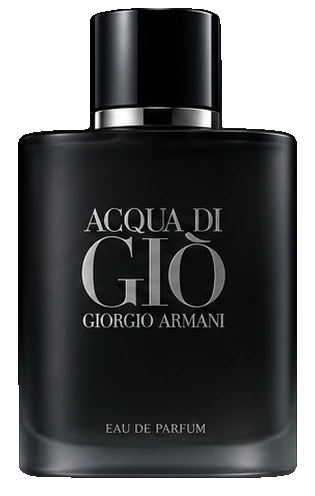
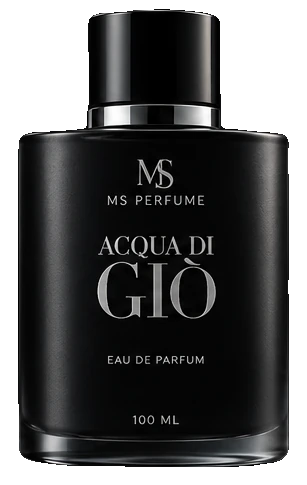
Design refresh, new bottle photos, second phone number
- New MS PERFUME-branded bottle cut-outs for the six perfume cards
- Refined perfume cards, categories and centered desktop footer
- Add second phone number (+968 76434164)
- Remove WhatsApp from the site
- Map falls back to a location card when frames are blocked

Claude-Session: https://claude.ai/code/session_01Xn117EQFLoVdWbu4KNpToc

diff --git a/app/page.tsx b/app/page.tsx
@@ -16,7 +16,7 @@ const grid = "mt-10 grid grid-cols-2 gap-3 sm:mt-12 sm:gap-6 sm:[grid-template-c
 const STATS: { k: string; v: string; icon: IconName }[] = [
   { k: "Oman", v: "Home of the brand", icon: "pin" },
   { k: "Oud & Amber", v: "Signature notes", icon: "bottle" },
-  { k: "WhatsApp", v: "Ask us anything", icon: "chat" },
+  { k: "Call us", v: "We are here to help", icon: "phone" },
 ];
 
 const iconBtn = "grid h-11 w-11 place-items-center rounded-full border border-white/10 bg-white/[.04] transition hover:border-orange hover:text-orange-light";
@@ -65,7 +65,6 @@ export default function Home() {
 
           <div className="absolute inset-x-0 bottom-6 mx-auto flex max-w-[1240px] items-center justify-between px-5">
             <div className="flex gap-3">
-              <a href={COMPANY.whatsapp} target="_blank" rel="noopener noreferrer" aria-label="WhatsApp" className={iconBtn}><Icon name="whatsapp" className="h-5 w-5" /></a>
               <a href={COMPANY.phoneHref} aria-label="Call" className={iconBtn}><Icon name="phone" className="h-5 w-5" /></a>
               <a href={`mailto:${COMPANY.email}`} aria-label="Email" className={iconBtn}><Icon name="mail" className="h-5 w-5" /></a>
             </div>
@@ -122,22 +121,21 @@ export default function Home() {
           <div className="mt-10 grid grid-cols-2 gap-3 sm:mt-12 sm:gap-7 sm:[grid-template-columns:repeat(auto-fit,minmax(min(100%,300px),1fr))]">
             {PERFUMES.map((p, i) => (
               <Reveal key={p.name} delay={(i % 3) * 120} className="card card-bare group !p-0">
-                {p.image ? (
-                  <div className="relative aspect-square w-full bg-[radial-gradient(closest-side_at_50%_58%,rgba(217,99,30,.30),transparent)]">
-                    <Image src={p.image} alt={`${p.brand} ${p.name} ${p.type}`} width={520} height={520} unoptimized className="absolute inset-x-[10%] bottom-[7%] top-[18%] h-[75%] w-[80%] object-contain object-bottom drop-shadow-[0_18px_22px_rgba(0,0,0,.65)] transition duration-700 group-hover:-translate-y-1.5 group-hover:scale-105" />
-                    <div className="absolute inset-x-[22%] bottom-[5%] h-3 rounded-[50%] bg-black/60 blur-md" />
-                    <span className="absolute left-2.5 top-2.5 rounded-full border border-white/10 bg-ink/75 px-2.5 py-1 text-[.52rem] uppercase tracking-[.16em] text-orange-light backdrop-blur sm:left-4 sm:top-4 sm:px-3 sm:text-[.62rem] sm:tracking-[.2em]">{p.brand}</span>
-                  </div>
-                ) : (
-                  <div className="relative grid aspect-square w-full place-items-center rounded-2xl bg-[radial-gradient(closest-side,rgba(217,99,30,.28),transparent)]">
-                    <Bottle tone={p.tone} label={p.label} className="h-[62%] w-auto drop-shadow-[0_10px_14px_rgba(0,0,0,.5)] transition duration-500 group-hover:-translate-y-2 group-hover:scale-110" />
-                    <span className="absolute left-2.5 top-2.5 rounded-full border border-white/10 bg-ink/75 px-2.5 py-1 text-[.52rem] uppercase tracking-[.16em] text-orange-light sm:left-4 sm:top-4 sm:px-3 sm:text-[.62rem] sm:tracking-[.2em]">{p.brand}</span>
-                  </div>
-                )}
-                <div className="px-3 pb-4 pt-2 sm:px-5 sm:pb-6 sm:pt-3">
-                  <h3 className="font-serif text-lg leading-tight sm:text-2xl">{p.name}</h3>
-                  <p className="mt-1 text-[.68rem] leading-snug tracking-wide text-orange-light/90 sm:mt-1.5 sm:text-[.8rem] sm:tracking-wider">{p.type}</p>
-                  <p className="mt-2 hidden text-[.82rem] leading-relaxed text-cream/60 sm:block">Ask us about sizes and availability.</p>
+                <div className="relative aspect-square w-full">
+                  <div aria-hidden className="absolute inset-x-[6%] bottom-[6%] top-[14%] bg-[radial-gradient(closest-side_at_50%_62%,rgba(217,99,30,.34),transparent)]" />
+                  {p.image ? (
+                    <Image src={p.image} alt={`${p.brand} ${p.name} ${p.type}`} width={520} height={520} unoptimized className="absolute inset-x-[7%] bottom-[9%] top-[10%] h-[81%] w-[86%] object-contain object-bottom drop-shadow-[0_18px_22px_rgba(0,0,0,.65)] transition duration-700 group-hover:-translate-y-2 group-hover:scale-[1.04]" />
+                  ) : (
+                    <Bottle tone={p.tone} label={p.label} className="absolute inset-x-[20%] bottom-[9%] top-[14%] h-[77%] w-[60%] drop-shadow-[0_10px_14px_rgba(0,0,0,.5)] transition duration-700 group-hover:-translate-y-2 group-hover:scale-105" />
+                  )}
+                  <div aria-hidden className="absolute inset-x-[18%] bottom-[5%] h-4 rounded-[50%] bg-black/70 blur-md" />
+                  <div aria-hidden className="absolute inset-x-[26%] bottom-[7%] h-px bg-gradient-to-r from-transparent via-orange-light/70 to-transparent" />
+                </div>
+                <div className="px-3 pb-3 pt-3 sm:px-5 sm:pb-6 sm:pt-5">
+                  <p className="text-[.64rem] uppercase tracking-[.26em] text-orange-light sm:text-[.7rem] sm:tracking-[.36em]">{p.brand}</p>
+                  <h3 className="mt-1.5 font-serif text-xl leading-tight sm:mt-2 sm:text-[1.75rem]">{p.name}</h3>
+                  <div aria-hidden className="mx-auto my-2.5 h-px w-8 bg-orange/50 sm:my-3.5 sm:w-12" />
+                  <p className="text-[.76rem] leading-snug tracking-wide text-cream/75 sm:text-[.84rem] sm:tracking-wider">{p.type}</p>
                 </div>
               </Reveal>
             ))}
@@ -147,7 +145,8 @@ export default function Home() {
         <Section id="categories" eyebrow="Categories" title={<>Find Your <span className="gold">Scent Family</span></>} lead="Every fragrance belongs to a family. Start with the mood you love, and we will help you from there.">
           <div className="mt-10 grid grid-cols-2 gap-3 sm:mt-12 sm:gap-7 lg:grid-cols-3">
             {CATEGORIES.map((c, i) => (
-              <Reveal key={c.name} delay={(i % 3) * 100} className="card !px-3 !py-7 sm:!px-8 sm:!py-14">
+              <Reveal key={c.name} delay={(i % 3) * 100} className="card group !px-3 !py-7 sm:!px-8 sm:!py-14">
+                <Icon name={c.icon as IconName} className="pointer-events-none absolute -bottom-6 -right-5 -z-10 hidden h-36 w-36 text-orange opacity-[.07] transition duration-500 group-hover:opacity-[.14] sm:block" />
                 <IconBadge name={c.icon as IconName} className="!mb-3 sm:!mb-5 sm:!h-20 sm:!w-20" big />
                 <h3 className="font-serif text-lg leading-tight sm:text-[1.9rem]">{c.name}</h3>
                 <p className="mt-1.5 text-[.72rem] leading-snug text-cream/60 sm:mt-2.5 sm:text-[.9rem] sm:leading-relaxed sm:text-cream/65">{c.text}</p>
@@ -157,12 +156,12 @@ export default function Home() {
         </Section>
 
         <Section id="why" alt eyebrow="Why Choose Us" title={<>The <span className="gold">MS</span> Difference</>} lead="A small house with a clear idea: fewer, better fragrances, and a real person to talk to.">
-          <div className="mt-10 grid grid-cols-2 gap-3 sm:mt-12 sm:gap-6 sm:[grid-template-columns:repeat(auto-fit,minmax(min(100%,240px),1fr))]">
+          <div className="mt-10 grid grid-cols-2 gap-3 sm:mt-14 sm:gap-6 lg:grid-cols-4">
             {WHY.map((w, i) => (
-              <Reveal key={w.name} delay={i * 100} className="card !p-4 sm:!p-6">
-                <IconBadge name={w.icon as IconName} />
-                <h3 className="font-serif text-lg leading-tight sm:text-2xl">{w.name}</h3>
-                <p className="mt-1 text-[.68rem] leading-snug tracking-wide text-cream/55 sm:mt-1.5 sm:text-[.78rem] sm:tracking-wider">{w.text}</p>
+              <Reveal key={w.name} delay={i * 100} className="card !px-4 !py-7 sm:!px-6 sm:!py-10">
+                <IconBadge name={w.icon as IconName} className="sm:!mb-5 sm:!h-16 sm:!w-16" />
+                <h3 className="font-serif text-xl leading-tight sm:text-[1.7rem]">{w.name}</h3>
+                <p className="mt-2 text-[.78rem] leading-snug text-cream/65 sm:mt-3 sm:text-[.92rem] sm:leading-relaxed">{w.text}</p>
               </Reveal>
             ))}
           </div>
@@ -198,7 +197,7 @@ export default function Home() {
               <p className="mt-6 text-sm text-cream/60">{COMPANY.address}<br />{COMPANY.addressLine}</p>
               <div className="mt-6 flex flex-wrap justify-center gap-3 lg:justify-start">
                 <a href={`https://www.google.com/maps/search/?api=1&query=${encodeURIComponent(COMPANY.mapQuery)}`} target="_blank" rel="noopener noreferrer" className="btn btn-fill">Get Directions <span aria-hidden>↗</span></a>
-                <a href={COMPANY.whatsappMsg} target="_blank" rel="noopener noreferrer" className="btn">WhatsApp Us</a>
+                <a href={COMPANY.phoneHref} className="btn">Call Us</a>
               </div>
             </Reveal>
           </div>
@@ -229,11 +228,18 @@ export default function Home() {
           </div>
         </section>
 
-        <Section id="contact" eyebrow="Contact Us" title={<>Let&apos;s <span className="gold">Talk Fragrance</span></>} lead="Questions about our fragrances, availability or gifting? Call, message us on WhatsApp or send an email. We are happy to help you choose.">
+        <Section id="contact" eyebrow="Contact Us" title={<>Let&apos;s <span className="gold">Talk Fragrance</span></>} lead="Questions about our fragrances, availability or gifting? Call or send us an email. We are happy to help you choose.">
           <div className="mt-12 grid grid-cols-[minmax(0,1fr)] gap-10 text-left md:grid-cols-[1fr_1.2fr]">
             <Reveal className="grid content-start gap-4">
+              <div className="panel flex items-center gap-4 p-5">
+                <span className="grid h-12 w-12 shrink-0 place-items-center rounded-full border border-orange/30 bg-orange/10 text-orange-light"><Icon name="phone" className="h-5 w-5" /></span>
+                <span className="min-w-0 text-[.88rem] sm:text-base">
+                  <b className="block text-[.7rem] font-normal uppercase tracking-[.25em] text-orange">Phone</b>
+                  <a href={COMPANY.phoneHref} className="block transition hover:text-orange-light">{COMPANY.phone}</a>
+                  <a href={COMPANY.phone2Href} className="block transition hover:text-orange-light">{COMPANY.phone2}</a>
+                </span>
+              </div>
               {[
-                { l: "Phone", v: COMPANY.phone, h: COMPANY.phoneHref, i: "phone" as IconName },
                 { l: "Email", v: COMPANY.email, h: `mailto:${COMPANY.email}`, i: "mail" as IconName },
               ].map((i) => (
                 <a key={i.l} href={i.h} className="panel flex items-center gap-4 p-5 transition hover:border-orange/60">
@@ -241,10 +247,6 @@ export default function Home() {
                   <span className="min-w-0 text-[.88rem] [overflow-wrap:anywhere] sm:text-base"><b className="block text-[.7rem] font-normal uppercase tracking-[.25em] text-orange">{i.l}</b>{i.v}</span>
                 </a>
               ))}
-              <a href={COMPANY.whatsappMsg} target="_blank" rel="noopener noreferrer" className="flex items-center gap-4 rounded-2xl border border-[#25d366]/70 bg-[#25d366]/10 p-5 transition hover:bg-[#25d366]/20">
-                <span className="grid h-12 w-12 shrink-0 place-items-center rounded-full bg-[#25d366]/20 text-[#4be08a]"><Icon name="whatsapp" className="h-6 w-6" /></span>
-                <span><b className="block text-[.7rem] font-normal uppercase tracking-[.25em] text-[#4be08a]">WhatsApp</b>Chat with us now</span>
-              </a>
               <div className="panel flex items-start gap-4 p-5">
                 <span className="grid h-12 w-12 shrink-0 place-items-center rounded-full border border-orange/30 bg-orange/10 text-orange-light"><Icon name="building" className="h-5 w-5" /></span>
                 <span className="min-w-0"><b className="block text-[.7rem] font-normal uppercase tracking-[.25em] text-orange">Head Quarter</b>
@@ -261,10 +263,10 @@ export default function Home() {
             <p className="eyebrow">MS PERFUME</p>
             <h2 className="title text-[clamp(2.4rem,6vw,4.4rem)]">Find Your <span className="gold">Signature Scent</span></h2>
             <div className="divider mx-auto" />
-            <p className="mx-auto max-w-[520px] text-cream/70">Tell us what you love and we will guide you. Call or message us on WhatsApp.</p>
+            <p className="mx-auto max-w-[520px] text-cream/70">Tell us what you love and we will guide you. Call us or send an email.</p>
             <div className="mt-8 flex flex-wrap items-center justify-center gap-4">
-              <a href={COMPANY.whatsappMsg} target="_blank" rel="noopener noreferrer" className="btn btn-fill px-8"><Icon name="whatsapp" className="h-5 w-5" />Chat on WhatsApp</a>
-              <a href={COMPANY.phoneHref} className="btn px-8"><Icon name="phone" className="h-5 w-5" />{COMPANY.phone}</a>
+              <a href={COMPANY.phoneHref} className="btn btn-fill px-8"><Icon name="phone" className="h-5 w-5" />Call {COMPANY.phone}</a>
+              <a href={`mailto:${COMPANY.email}`} className="btn px-8"><Icon name="mail" className="h-5 w-5" />Email Us</a>
             </div>
           </Reveal>
         </section>
@@ -274,25 +276,25 @@ export default function Home() {
         <div aria-hidden className="pointer-events-none absolute inset-0 bg-[radial-gradient(ellipse_at_50%_0%,rgba(217,99,30,.22),transparent_60%)]" />
         <div aria-hidden className="bg-lattice pointer-events-none absolute inset-0 [mask-image:linear-gradient(to_bottom,black,transparent_70%)]" />
         <div className="relative mx-auto max-w-[1240px]">
-          <div className="grid gap-10 text-center sm:grid-cols-2 sm:text-left lg:grid-cols-[1.4fr_1fr] lg:gap-20">
+          <div className="grid gap-10 text-center">
             <div>
-              <div className="flex items-center justify-center gap-3 font-serif text-2xl tracking-wide text-cream sm:justify-start">
+              <div className="flex items-center justify-center gap-3 font-serif text-2xl tracking-wide text-cream">
                 <Image src="/logo-sm.webp" alt="" width={79} height={64} unoptimized className="h-auto w-[64px] drop-shadow-[0_6px_18px_rgba(217,99,30,.45)] sm:w-[56px]" /><span>MS PERFUME<span className="text-orange">.</span></span>
               </div>
               <p className="mt-3 font-serif text-xl italic text-champagne/90">The art of Arabian scent.</p>
-              <div className="divider mx-auto mt-5 sm:mx-0" />
-              <p className="mx-auto mt-4 max-w-[340px] text-[.85rem] leading-relaxed text-cream/60 sm:mx-0 sm:max-w-none">Oud, amber, musk and rose, from {COMPANY.legalName}, Muscat, Oman.</p>
+              <div className="divider mx-auto mt-5" />
+              <p className="mx-auto mt-4 max-w-[420px] text-[.85rem] leading-relaxed text-cream/60">Oud, amber, musk and rose, from {COMPANY.legalName}, Muscat, Oman.</p>
             </div>
 
             <div className="sm:hidden">
               <ul className="grid grid-cols-2 gap-3 text-left">
                 {([
                   ["phone", "Call", COMPANY.phone, COMPANY.phoneHref],
-                  ["whatsapp", "WhatsApp", "Chat with us", COMPANY.whatsappMsg],
+                  ["phone", "Call", COMPANY.phone2, COMPANY.phone2Href],
                   ["mail", "Email", "Write to us", `mailto:${COMPANY.email}`],
                   ["pin", "Directions", "Ruwi / Muttrah", `https://www.google.com/maps/search/?api=1&query=${encodeURIComponent(COMPANY.mapQuery)}`],
                 ] as [IconName, string, string, string][]).map(([ic, l, v, h]) => (
-                  <li key={l}>
+                  <li key={h}>
                     <a href={h} {...(h.startsWith("http") ? { target: "_blank", rel: "noopener noreferrer" } : {})} className="block rounded-2xl border border-orange/25 bg-[linear-gradient(160deg,rgba(240,160,75,.14),rgba(0,0,0,.25))] p-4 shadow-[0_14px_30px_-12px_rgba(0,0,0,.8)] transition active:scale-[.98]">
                       <span className="mb-3 grid h-10 w-10 place-items-center rounded-full border border-orange/30 bg-orange/10 text-orange-light"><Icon name={ic} className="h-5 w-5" /></span>
                       <b className="block font-serif text-lg font-medium leading-tight">{l}</b>
@@ -301,18 +303,32 @@ export default function Home() {
                   </li>
                 ))}
               </ul>
-              <p className="mx-auto mt-4 max-w-[300px] text-[.78rem] leading-relaxed text-cream/55">{COMPANY.address}<br />{COMPANY.addressLine}</p>
+              <p className="mx-auto mt-3 max-w-[300px] text-[.78rem] leading-relaxed text-cream/55">{COMPANY.address}<br />{COMPANY.addressLine}</p>
               <p className="mt-2 text-[.74rem] text-cream/45 [overflow-wrap:anywhere]">{COMPANY.email}</p>
             </div>
 
-            <div className="hidden sm:block">
-              <p className="eyebrow">Contact</p>
-              <ul className="mt-4 space-y-3 text-sm text-cream/70">
-                <li className="flex items-center gap-3"><Icon name="phone" className="h-4 w-4 shrink-0 text-orange" /><a href={COMPANY.phoneHref} className="transition hover:text-orange-light">{COMPANY.phone}</a></li>
-                <li className="flex items-center gap-3"><Icon name="mail" className="h-4 w-4 shrink-0 text-orange" /><a href={`mailto:${COMPANY.email}`} className="[overflow-wrap:anywhere] transition hover:text-orange-light">{COMPANY.email}</a></li>
-                <li className="flex items-start gap-3"><Icon name="pin" className="mt-0.5 h-4 w-4 shrink-0 text-orange" /><span>{COMPANY.address}<br />{COMPANY.addressLine}</span></li>
-              </ul>
-            </div>
+            <ul className="mx-auto hidden w-full max-w-[1000px] gap-8 text-left sm:grid sm:grid-cols-3">
+              <li>
+                <div className="flex items-start gap-4">
+                  <span className="grid h-12 w-12 shrink-0 place-items-center rounded-full border border-orange/30 bg-orange/10 text-orange-light"><Icon name="phone" className="h-5 w-5" /></span>
+                  <span className="min-w-0 text-sm text-cream/75"><b className="mb-0.5 block text-[.66rem] font-normal uppercase tracking-[.26em] text-orange">Phone</b>
+                    <a href={COMPANY.phoneHref} className="block transition hover:text-orange-light">{COMPANY.phone}</a>
+                    <a href={COMPANY.phone2Href} className="block transition hover:text-orange-light">{COMPANY.phone2}</a>
+                  </span>
+                </div>
+              </li>
+              {([
+                ["mail", "Email", COMPANY.email, `mailto:${COMPANY.email}`],
+                ["pin", "Head Quarter", `${COMPANY.address}, ${COMPANY.addressLine}`, `https://www.google.com/maps/search/?api=1&query=${encodeURIComponent(COMPANY.mapQuery)}`],
+              ] as [IconName, string, string, string][]).map(([ic, l, v, h]) => (
+                <li key={l}>
+                  <a href={h} {...(h.startsWith("http") ? { target: "_blank", rel: "noopener noreferrer" } : {})} className="group flex items-start gap-4">
+                    <span className="grid h-12 w-12 shrink-0 place-items-center rounded-full border border-orange/30 bg-orange/10 text-orange-light transition group-hover:bg-orange group-hover:text-white"><Icon name={ic} className="h-5 w-5" /></span>
+                    <span className="min-w-0 text-sm text-cream/75 [overflow-wrap:anywhere]"><b className="mb-0.5 block text-[.66rem] font-normal uppercase tracking-[.26em] text-orange">{l}</b>{v}</span>
+                  </a>
+                </li>
+              ))}
+            </ul>
           </div>
 
           <div className="mt-12 flex flex-col items-center gap-3 border-t border-white/10 pt-6 text-center text-[.74rem] leading-relaxed text-cream/45">
@@ -322,8 +338,6 @@ export default function Home() {
         </div>
       </footer>
 
-      <a href={COMPANY.whatsapp} target="_blank" rel="noopener noreferrer" aria-label="WhatsApp" className="fixed bottom-[18px] right-[18px] z-[45] grid h-14 w-14 place-items-center rounded-full bg-[#25d366] shadow-[0_8px_24px_rgba(0,0,0,.5)] transition hover:scale-110"><Icon name="whatsapp" className="h-[30px] w-[30px] text-white" />
-      </a>
     </>
   );
 }

diff --git a/components/MapCard.tsx b/components/MapCard.tsx
@@ -1,29 +1,52 @@
 "use client";
-import { useState } from "react";
+import { useEffect, useState } from "react";
 import { COMPANY } from "@/lib/data";
 import Icon from "./Icon";
 
+type Mode = "card" | "map";
+
+/**
+ * The location card is the default and always renders. The live Google Map replaces it only when
+ * the page is a normal top-level tab, or when a visitor asks for it. If the browser or a viewer
+ * blocks the frame, it falls back to the card, so nobody sees a "content is blocked" box.
+ */
 export default function MapCard() {
-  const [live, setLive] = useState(false);
+  const [mode, setMode] = useState<Mode>("card");
   const q = encodeURIComponent(COMPANY.mapQuery);
+
+  useEffect(() => {
+    // A Content-Security-Policy that forbids frames reports a violation: drop back to the card.
+    // The listener goes on first, so it is already waiting when the frame is added.
+    const onViolation = (e: SecurityPolicyViolationEvent) => {
+      if (/frame|child/.test(e.violatedDirective)) setMode("card");
+    };
+    document.addEventListener("securitypolicyviolation", onViolation);
+    // Inside another page or a viewer (iframe): keep the card and offer the button.
+    if (window.self === window.top) setMode("map");
+    return () => document.removeEventListener("securitypolicyviolation", onViolation);
+  }, []);
+
   return (
-    <div className="flex min-h-[380px] flex-col overflow-hidden rounded-2xl border border-white/10">
-      {live ? (
-        <iframe
-          title={`${COMPANY.mapQuery} map`}
-          src={`https://www.google.com/maps?q=${q}&output=embed`}
-          loading="lazy"
-          referrerPolicy="no-referrer-when-downgrade"
-          className="min-h-[340px] w-full flex-1 border-0 sepia-[.5] contrast-90 grayscale invert-[.9]"
-        />
-      ) : (
-        <div className="flex flex-1 flex-col items-center justify-center gap-2 bg-[radial-gradient(circle_at_50%_40%,#4a2410,#120a06)] p-8 text-center">
+    <div className="flex min-h-[420px] flex-col overflow-hidden rounded-2xl border border-white/10">
+      <div className="relative min-h-[360px] flex-1 bg-[radial-gradient(circle_at_50%_40%,#4a2410,#120a06)]">
+        <div className="absolute inset-0 flex flex-col items-center justify-center gap-2 p-8 text-center">
           <span className="mb-1 grid h-16 w-16 place-items-center rounded-full border border-orange/40 bg-orange/10 text-orange-light"><Icon name="pin" className="h-8 w-8" /></span>
           <h3 className="font-serif text-[1.6rem]">{COMPANY.addressShort}</h3>
-          <p className="mb-3 text-cream/60">{COMPANY.legalName}<br />{COMPANY.addressLine}</p>
-          <button type="button" className="btn" onClick={() => setLive(true)}>Show map</button>
+          <p className="text-cream/60">{COMPANY.legalName}<br />{COMPANY.addressLine}</p>
+          {mode === "card" && (
+            <button type="button" className="btn mt-3" onClick={() => setMode("map")}>Show map</button>
+          )}
         </div>
-      )}
+        {mode === "map" && (
+          <iframe
+            title={`${COMPANY.mapQuery} map`}
+            src={`https://www.google.com/maps?q=${q}&output=embed`}
+            loading="lazy"
+            referrerPolicy="no-referrer-when-downgrade"
+            className="relative h-full min-h-[360px] w-full border-0 sepia-[.5] contrast-90 grayscale invert-[.9]"
+          />
+        )}
+      </div>
       <a
         href={`https://www.google.com/maps/search/?api=1&query=${q}`}
         target="_blank"

diff --git a/components/Icon.tsx b/components/Icon.tsx
@@ -1,9 +1,9 @@
 export type IconName =
   | "pin" | "phone" | "mail" | "chat" | "bottle" | "building"
   | "wood" | "flower" | "drop" | "citrus" | "attar" | "gift"
-  | "bakhoor" | "gem" | "clock" | "dome" | "support" | "whatsapp";
+  | "bakhoor" | "gem" | "clock" | "dome" | "support";
 
-const PATHS: Record<Exclude<IconName, "whatsapp">, React.ReactNode> = {
+const PATHS: Record<IconName, React.ReactNode> = {
   pin: <><path d="M12 21s-6.500-5.600-6.500-11a6.500 6.500 0 0 1 13 0c0 5.400-6.500 11-6.500 11z" /><circle cx="12" cy="10" r="2.300" /></>,
   phone: <path d="M5 4h4l2 5-2.500 1.500a11 11 0 0 0 5 5L15 13l5 2v4a2 2 0 0 1-2 2A16 16 0 0 1 3 6a2 2 0 0 1 2-2z" />,
   mail: <><rect x="3" y="5" width="18" height="14" rx="2" /><path d="m3 7 9 6 9-6" /></>,
@@ -24,13 +24,6 @@ const PATHS: Record<Exclude<IconName, "whatsapp">, React.ReactNode> = {
 };
 
 export default function Icon({ name, className = "h-6 w-6" }: { name: IconName; className?: string }) {
-  if (name === "whatsapp") {
-    return (
-      <svg viewBox="0 0 32 32" className={`${className} fill-current`} aria-hidden>
-        <path d="M16 3a13 13 0 0 0-11 19.800L3 29l6.400-1.700A13 13 0 1 0 16 3zm0 2.400a10.600 10.600 0 1 1-5.400 19.700l-.4-.2-3.800 1 1-3.700-.3-.4A10.600 10.600 0 0 1 16 5.400zm5 12.200c-.3-.1-1.700-.8-2-.9s-.5-.1-.7.1l-.9 1.100c-.2.200-.3.200-.6.100-.3-.1-1.200-.4-2.300-1.400-.9-.8-1.400-1.700-1.600-2-.2-.3 0-.4.100-.6l.4-.5.3-.5v-.5l-.9-2.200c-.2-.5-.5-.5-.7-.5h-.6c-.2 0-.5.100-.8.400-.3.300-1 1-1 2.500s1.100 2.900 1.200 3.100c.2.200 2.100 3.300 5.200 4.500 3.100 1.200 3.100.8 3.700.8.600-.1 1.800-.7 2.100-1.500.3-.7.300-1.300.2-1.500-.1-.1-.3-.2-.6-.3z" />
-      </svg>
-    );
-  }
   return (
     <svg viewBox="0 0 24 24" className={className} fill="none" stroke="currentColor" strokeWidth="1.4" strokeLinecap="round" strokeLinejoin="round" aria-hidden>
       {PATHS[name]}

diff --git a/lib/data.ts b/lib/data.ts
@@ -4,10 +4,10 @@ export const COMPANY = {
   country: "Sultanate of Oman",
   phone: "+968 94247885",
   phoneHref: "tel:+96894247885",
+  // Second line.
+  phone2: "+968 76434164",
+  phone2Href: "tel:+96876434164",
   email: "VIPOWER0989@OUTLOOK.COM",
-  whatsapp: "https://wa.me/96894247885",
-  whatsappMsg:
-    "https://wa.me/96894247885?text=Hello%20MS%20PERFUME%2C%20I%20would%20like%20to%20know%20more.",
   address: "Ruwi / Muttrah, Muscat Governorate, Sultanate of Oman",
   addressLine: "P.O. Box 112, P.C. 111",
   addressShort: "Ruwi / Muttrah, Muscat",
@@ -57,5 +57,5 @@ export const WHY = [
   { n: "01", icon: "gem", name: "Premium Ingredients", text: "Oud, amber, rose and musk, chosen for depth and character." },
   { n: "02", icon: "clock", name: "Made to Linger", text: "Rich compositions designed to stay with you from morning to night." },
   { n: "03", icon: "dome", name: "Omani Heritage", text: "Rooted in Gulf perfumery and shaped for modern taste." },
-  { n: "04", icon: "support", name: "Personal Service", text: "Speak to us by phone or WhatsApp and we will help you find your scent." },
+  { n: "04", icon: "support", name: "Personal Service", text: "Speak to us by phone and we will help you find your scent." },
 ];

diff --git a/components/Navbar.tsx b/components/Navbar.tsx
@@ -80,7 +80,6 @@ export default function Navbar() {
             <Icon name="phone" className="h-4 w-4" />
             {COMPANY.phone}
           </a>
-          <a href={COMPANY.whatsappMsg} target="_blank" rel="noopener noreferrer" className="hidden rounded-full border border-white/20 px-5 py-2 text-sm transition hover:border-orange hover:text-orange-light sm:block">WhatsApp</a>
           <button aria-label="Menu" aria-expanded={open} aria-controls="site-menu" onClick={() => setOpen(!open)} className="relative z-[60] grid h-11 w-11 place-items-center rounded-full border border-orange/50 lg:hidden">
             <span className="relative block h-3 w-5">
               <i className={`absolute left-0 h-[1.5px] w-full bg-cream transition-all ${open ? "top-1/2 rotate-45" : "top-0"}`} />

diff --git a/app/globals.css b/app/globals.css
@@ -12,7 +12,7 @@ body { @apply bg-ink font-sans font-light leading-relaxed text-cream overflow-x-
 
 @layer components {
   .eyebrow { @apply text-[.72rem] uppercase tracking-[.35em] text-orange; }
-  .title { @apply my-2.5 mb-4 font-serif text-[clamp(2.2rem,5vw,3.6rem)] font-medium leading-[1.08]; }
+  .title { @apply text-balance my-2.5 mb-4 font-serif text-[clamp(2.2rem,5vw,3.6rem)] font-medium leading-[1.08]; }
   .gold { @apply bg-gradient-to-r from-orange-light to-orange-hot bg-clip-text text-transparent; }
   .divider { @apply relative my-6 h-px w-24 bg-gradient-to-r from-transparent via-orange to-transparent; }
   .divider::after { content: ""; @apply absolute left-1/2 top-1/2 h-[7px] w-[7px] -translate-x-1/2 -translate-y-1/2 rotate-45 bg-orange; }

diff --git a/components/Section.tsx b/components/Section.tsx
@@ -11,7 +11,7 @@ export default function Section({ id, eyebrow, title, lead, alt, children }: Pro
           <p className="eyebrow">{eyebrow}</p>
           <h2 className="title">{title}</h2>
           <div className="divider mx-auto" />
-          {lead && <p className="mx-auto max-w-[620px] text-cream/60">{lead}</p>}
+          {lead && <p className={`mx-auto max-w-[620px] text-cream/60`}>{lead}</p>}
         </Reveal>
         {children}
       </div>

diff --git a/app/layout.tsx b/app/layout.tsx
@@ -18,7 +18,7 @@ const jsonLd = {
   name: COMPANY.brand,
   legalName: COMPANY.legalName,
   description: "Oud, amber, musk and rose fragrances from Muscat, Oman.",
-  telephone: "+96894247885",
+  telephone: ["+96894247885", "+96876434164"],
   email: COMPANY.email,
   address: {
     "@type": "PostalAddress",
